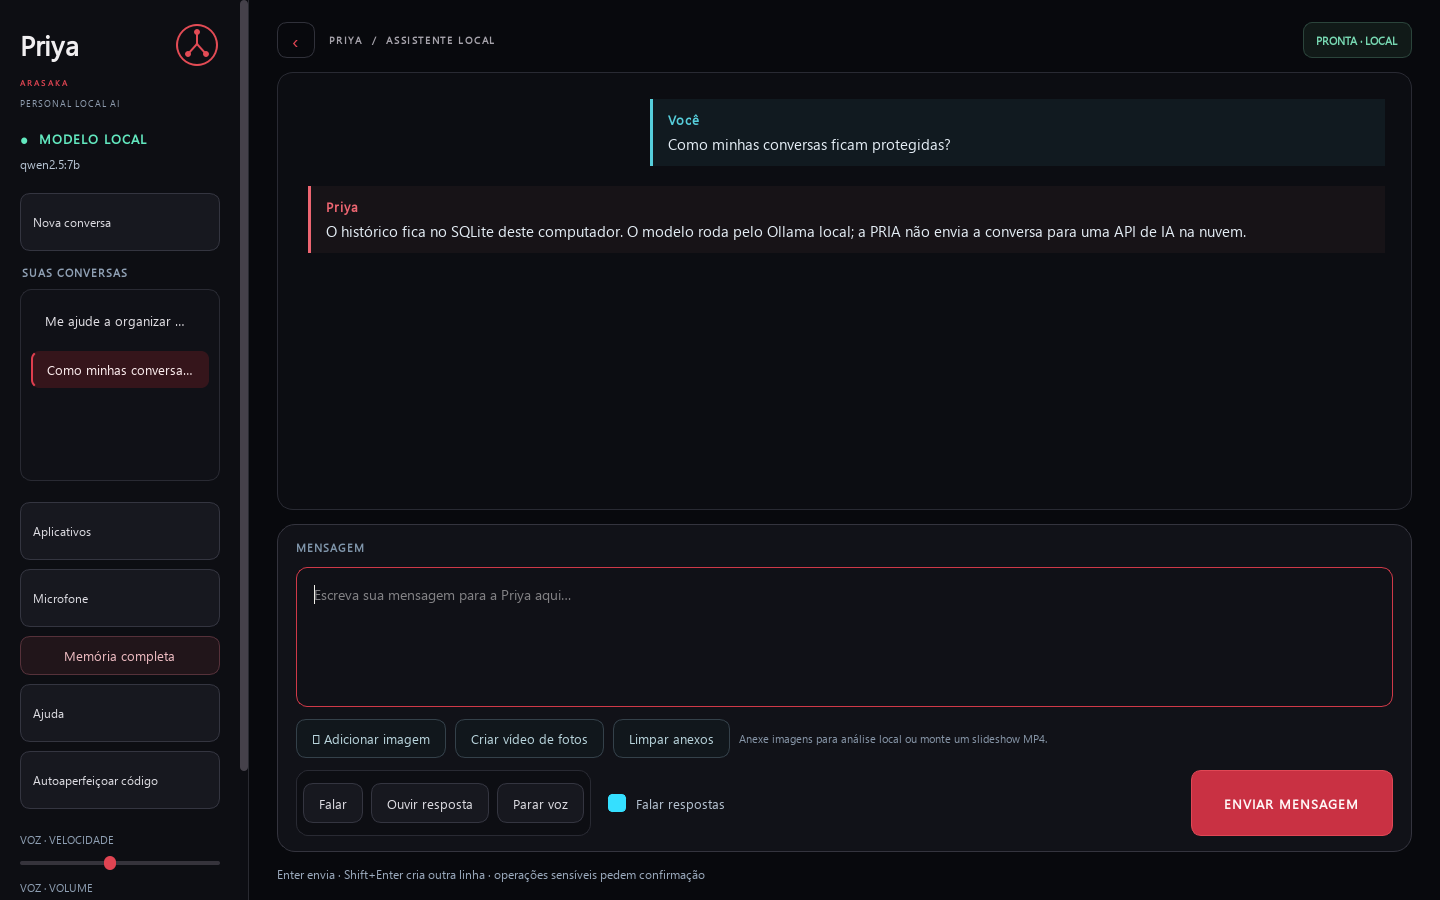
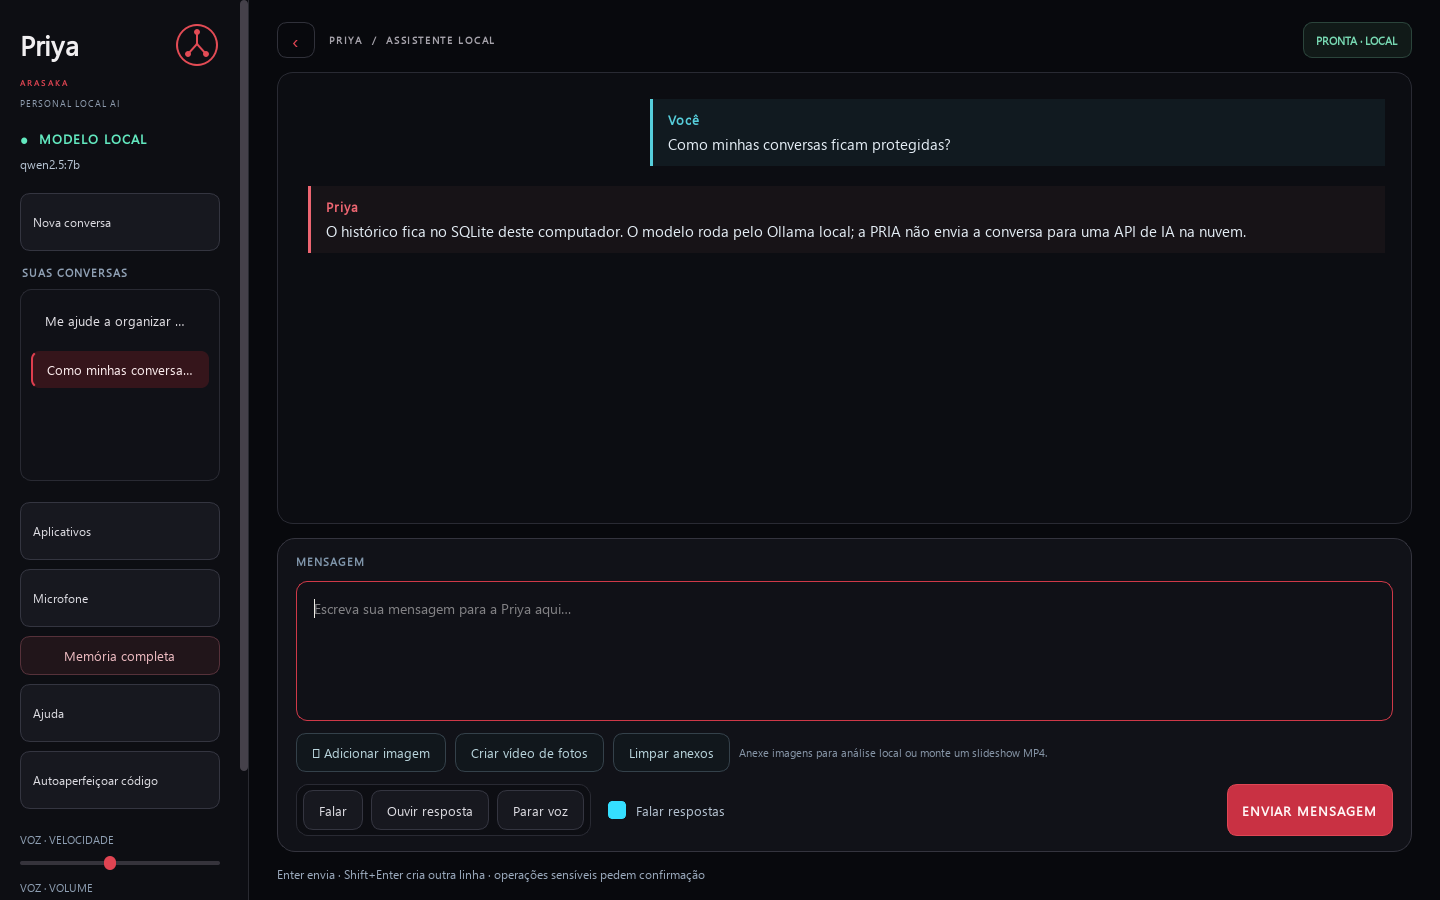
Reduz o tamanho do botão de envio da PRIYA
Ajusta o botão de envio e atualiza README e capturas de interface.

Changed region(s): [[0.2188, 0.7778, 0.7188, 0.9333], [0.1875, 0.56, 0.9688, 0.6844], [0.8125, 0.84, 0.9688, 0.9333]]

diff --git a/pria/interface/desktop.py b/pria/interface/desktop.py
@@ -165,7 +165,7 @@ class PriyaDesktop(QMainWindow):
             QPushButton#MemoryButton:hover { background: #301a21; border-color: #a44a57; }
             QPushButton#SidebarToggle { background: transparent; border: 1px solid #30313a; color: #e04452; font-size: 16pt; padding: 0; }
             QPushButton#SidebarToggle:hover { background: #1a1419; border-color: #91404a; }
-            QPushButton#SendButton { min-height: 42px; min-width: 166px; background: #c93143; color: #fff7f7; border: 1px solid #e04755; font-weight: 700; padding: 11px 17px; }
+            QPushButton#SendButton { min-height: 36px; min-width: 142px; background: #c93143; color: #fff7f7; border: 1px solid #e04755; font-weight: 700; padding: 7px 11px; }
             QPushButton#SendButton:hover { background: #e44251; border-color: #ff6974; }
             QPushButton#Suggestion { background: #13141a; color: #e3e1e6; border: 1px solid #30313a; border-radius: 11px; padding: 14px 15px; text-align: left; font-size: 10pt; }
             QPushButton#Suggestion:hover { background: #1a1419; border-color: #91404a; }

diff --git a/README.md b/README.md
@@ -56,7 +56,7 @@ O projeto reúne interface gráfica, comandos em português e módulos opcionais
 
 ## 🖼 Capturas e interface
 
-A interface mantém o tema escuro com acentos discretos em ciano e vermelho, organiza os controles de voz em um grupo com mais espaço entre botões e permite recolher a lateral. Em telas menores, a lateral pode ser rolada para manter os controles separados.
+A interface mantém o tema escuro com acentos discretos em ciano e vermelho, organiza os controles de voz em um grupo, mantém o botão de envio compacto e permite recolher a lateral. Em telas menores, a lateral pode ser rolada para manter os controles separados.
 
 Cada entrada do histórico abre uma conversa própria; **Nova conversa** inicia outra sessão. **Memória completa** cria uma conversa separada com os fatos guardados e o histórico local disponível, sem misturar o conteúdo com os chats anteriores.
 
